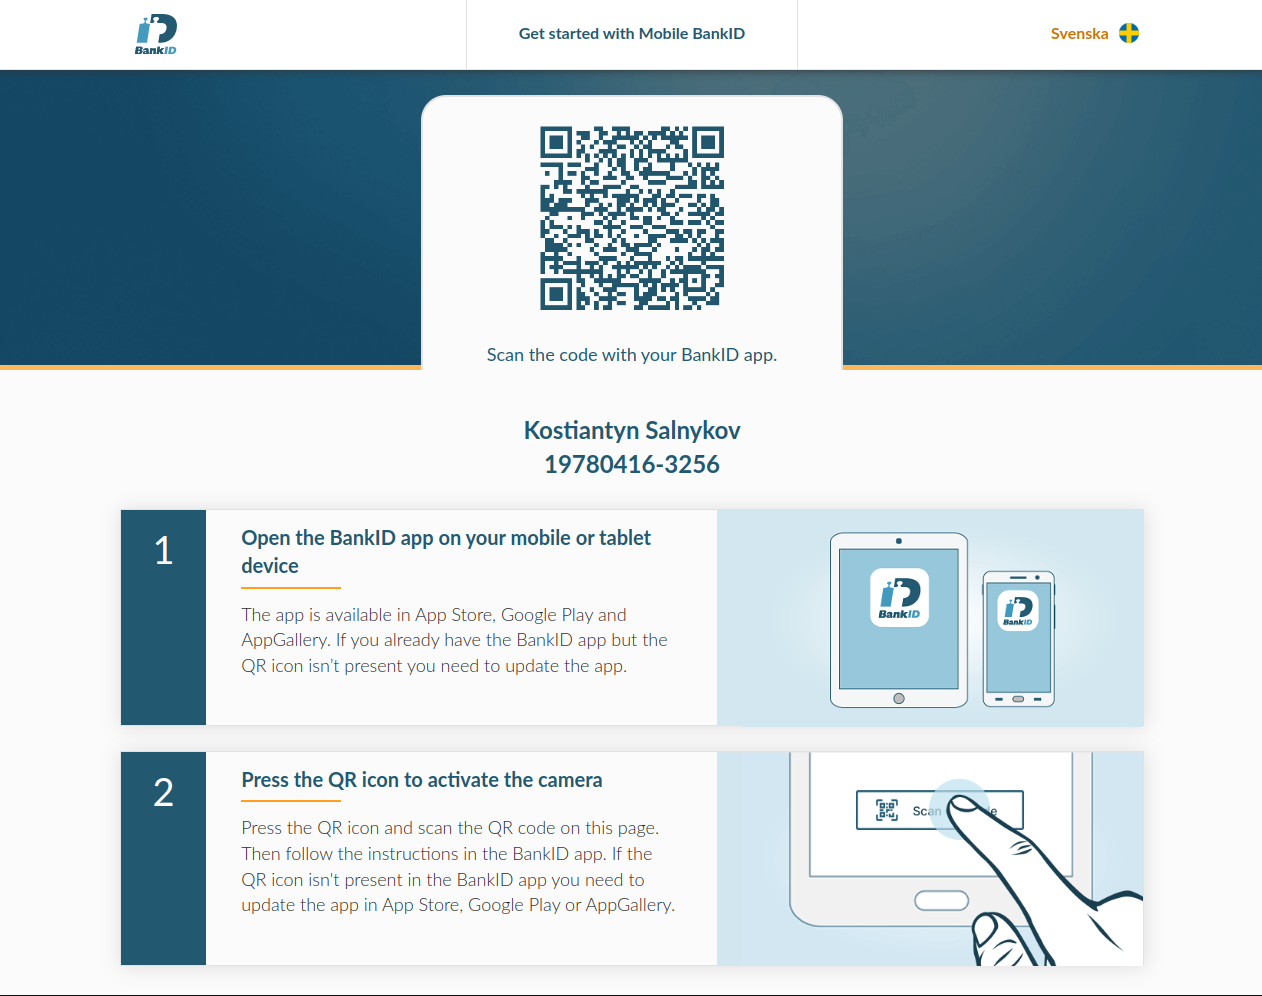
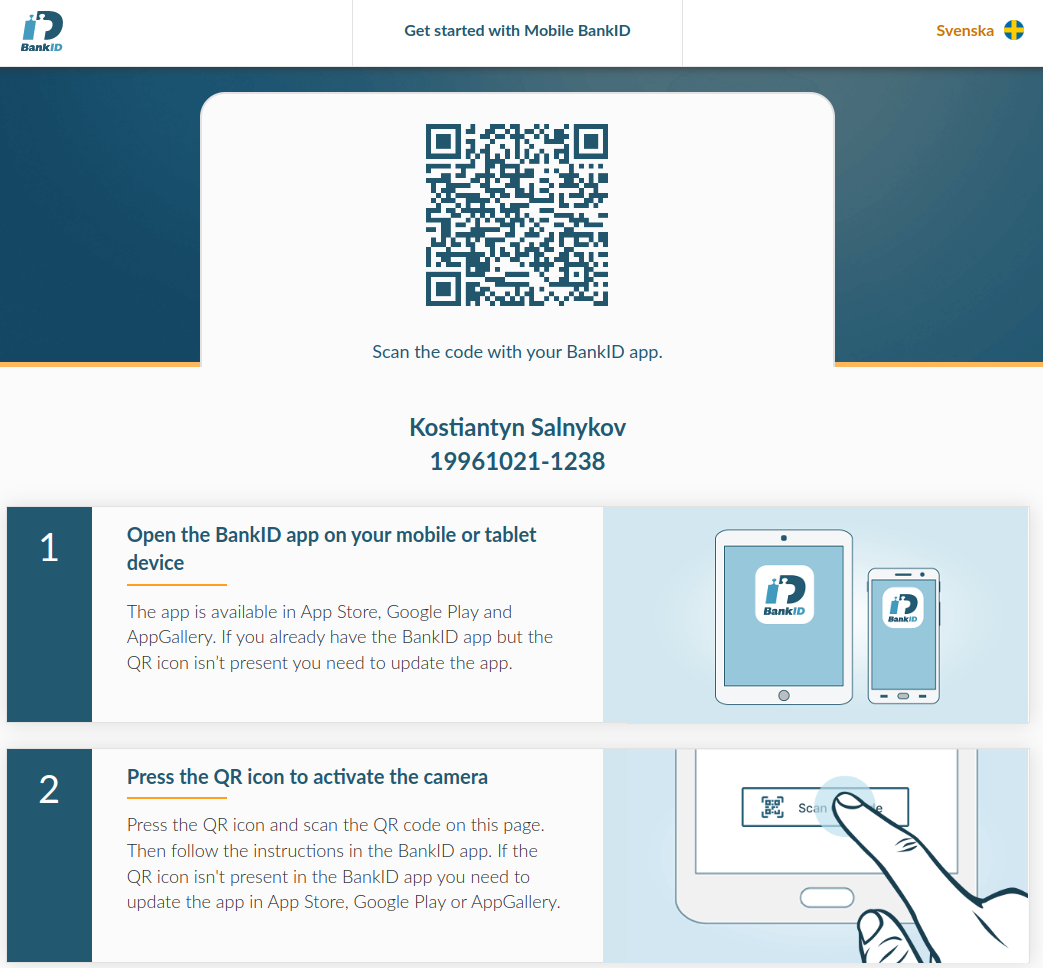
Update documentation

diff --git a/docs/setup.md b/docs/setup.md
@@ -38,21 +38,54 @@
     ```
 
 ### Test account 💼
-1. Goto [https://demo.bankid.com/](https://demo.bankid.com/){target=_blank}
-2. Click "Generate code"
-3. Fill form with your data (organization, email, project, fist name, last name)
+
+Here is a guide: [Get BankID for test](https://www.bankid.com/en/utvecklare/test/skaffa-testbankid/test-bankid-get){target=_blank}
+
+#### Issue personal code
+!!! tip
+    Use this method when you set up your environment for the first time.
+    Otherwise, use this methods [mobile](#login-with-mobile-app) or [desktop](#login-with-desktop-app).
+
+1. Goto [https://demo.bankid.com/ordercode](https://demo.bankid.com/ordercode){target=_blank}
+2. Fill form with your data (organization, email, project, fist name, last name)
     
     !!! warning "Organization email"
         Email should be a corporate, emails with `@gmail.com` domain wouldn't work❗
     
     ![Demo BankID Generate Code](assets/demo_bank_1.png)
 
-4. Goto your corporate email, you'll obtain a test 30-days trial code
-5. Use this code to log in
-    ![Demo BankID Login](assets/demo_bank_2.png)
-6. It's all, now you'll be able to set up Mobile / Desktop BankID environments.
+3. Goto your corporate email, you'll obtain a test 30-days trial code.
 
-### Test Android app 📱
+#### Login with personal code
+1. Use this code to log in [https://demo.bankid.com/logincode](https://demo.bankid.com/logincode){target=_blank}
+    ![Demo BankID Login](assets/demo_bank_2.png)
+2. It's all, now you'll be able to set up Mobile / Desktop BankID environments.
+
+#### Login with mobile app
+This is method to log in to test account using mobile app and QR code.
+!!! tip
+    Use this method when you already set up your test account via personal code [Issue personal code](#issue-personal-code).
+
+1. Go to [https://demo.bankid.com/logintest](https://demo.bankid.com/logintest){target=_blank}
+2. Open your BankID test app and scan QR code.
+
+    !!! warning
+        Mobile app should be configured, read here [Mobile test environments](#mobile-test-environments).
+
+#### Login with desktop app
+This is method to log in to test account using desktop app.
+!!! tip
+    Use this method when you already set up your test account via personal code [Issue personal code](#issue-personal-code).
+
+1. Go to [https://demo.bankid.com/logintest](https://demo.bankid.com/logintest){target=_blank}
+2. Click "Alternative: Start BankID Security Application on this device.".
+
+    !!! warning
+        Mobile app should be configured, read here [Mobile test environments](#mobile-test-environments).
+
+### Mobile test environments
+
+#### Test Android app 📱
 Here is a guide: [BankID test configuration](https://www.bankid.com/en/utvecklare/test/skaffa-testbankid/testbankid-konfiguration){target=_blank}
 
 1. Install BankID app from your app store.
@@ -78,7 +111,7 @@ Here is a guide: [BankID test configuration](https://www.bankid.com/en/utvecklar
 5. Disable "airplane mode".
 6. Done.
 
-### Test iOS app 📱
+#### Test iOS app 📱
 
 1. Uninstall any existing version of BankID Security App and then reinstall it from App Store.
 
@@ -92,7 +125,9 @@ Here is a guide: [BankID test configuration](https://www.bankid.com/en/utvecklar
 !!! warning "TODO Screenshots"
     If you have an iPhone you can help to document it with screenshots (Contributors welcome).
 
-### Test Windows app 🖥
+### Desktop test environments
+
+#### Test Windows app 🖥
 
 1. [Download](https://install.bankid.com/api/file-download/Win){.md-button} windows BankID desktop application ([extra link](https://install.bankid.com/Download/PostDownload/Win){target=_blank})
 2. Install it.
@@ -116,64 +151,77 @@ Here is a guide: [BankID test configuration](https://www.bankid.com/en/utvecklar
 8. Done.
 
 
-### Test MacOS app 💻
+#### Test MacOS app 💻
 
 !!! warning "TODO"
     If you have a Macbook, you can help to document it with screenshots (Contributors welcome).
 
-## Connect Test app to BankID test account
-Here is a guide: [Get BankID for test](https://www.bankid.com/en/utvecklare/test/skaffa-testbankid/test-bankid-get){target=_blank}
+### Generate personal number (customizable)
+
+1. Goto [Personal number generator](https://tedeh.net/tools/generator-for-swedish-personnummer/){target=_blank}
+2. Select "Output format" as "YYYYMMDDNNNN".
+3. Select your gender.
+4. Fill out "Date of birth".
+!!! example "Example"
+    ![Generate personal number](assets/demo_bank_2_1.png)
+
+### Generate random personal number with (fejk.se)
 
 1. Generate personal number at: [https://fejk.se/](https://fejk.se/){target=_blank}
-    
-    1.1 Get date of birth (without dashes).
-    
-    1.2 Get latest 4 digits of personnummer.
-    
-    1.3 Concatenate it without dashes.
-    !!! example
-        1) Date of birth `1996-10-21` --> `19961021` (remove dashes)
-        
-        2) End of personal number `-9876` --> `9876` (removed dash)
-        
-        3) Result `19961021` + `9876` --> `199610219876` (must be 12 digits length)
+2. Get date of birth (without dashes). 
+3. Get latest 4 digits of personnummer. 
+4. Concatenate it without dashes.
+!!! example
+    1) Date of birth `1996-10-21` --> `19961021` (remove dashes)
 
-        ![Generate Personal number](assets/demo_bank_3.png)
+    2) End of personal number `-1238` --> `1238` (removed dash)
 
-2. Login with 30-days code to demo BankID.
-3. Click "Issue" under "Issue BankID for Test".
-![Issue BankID for Test](assets/demo_bank_4.png)
-    
-    3.1 Select one option:
+    3) Result `19961021` + `1238` --> `199610211238` (must be 12 digits length)
+    ![Generate personal number](assets/demo_bank_3.png)
 
-    + "^^Issue Mobile BankID^^" - for mobile 📱;
+
+### Issue BankID for test
+1. Login to Demo Bank.
+
+    !!! tip
+        First time login: [personal code](#login-with-personal-code).
         
-    + "^^Issue BankID on file^^" - for desktop 🖥;
-    
-    3.2 Paste personal number into form, add first and last names.
+        Subsequent time login: [mobile](#login-with-mobile-app), [desktop](#login-with-desktop-app).
+
+2. Click selected button under "Issue BankID for Test".
+
+    !!! tip
+
+        + "^^Mobile BankID^^" - for mobile 📱;
+        + "^^BankID on file^^" - for desktop 🖥;
+
+    ![Issue BankID for Test](assets/demo_bank_4.png)
+
+3. Fill data into fields (first name, last name, personal number).
 
     ![Issue for test](assets/demo_bank_5.png)    
 
     !!! tip
         You can use random first name and last name.
 
+4. Click "Issue" and proceed with connection section, depends on your choice (mobile or desktop).
+
 ### Connect with Android 📱
 
 Before start: [requirements](#connect-test-app-to-bankid-test-account)
 
-1. Click "Issue" under "Issue Mobile BankID".
-2. Click "Open BankID issuing".
-    ![Issue BankID for phone](assets/demo_bank_6.png)
+1. Click "Issue" under "Mobile BankID" form.
+    ![Issue BankID for phone](assets/demo_bank_5.png)
 
-3. It will open modal window with QR code.
+2. It will open modal window with QR code.
     ![QR BankID for phone](assets/demo_bank_7.png)
 
-4. Open BankID app.
-5. Click "New BankID".
+3. Open BankID app.
+4. Click "New BankID".
 
     ![New BankID](assets/android/bankid_13.jpeg){width="200"}
 
-6. It will open scanner, scan QR code inside modal window.
+5. It will open scanner, scan QR code inside modal window.
     
     Success screen at mobile:
     
@@ -183,7 +231,7 @@ Before start: [requirements](#connect-test-app-to-bankid-test-account)
     
     ![Activation completed](assets/demo_bank_8.png)
     
-7. You can enable fingerprint to easy approve BankID confirmation.
+6. You can enable fingerprint to easy approve BankID confirmation.
     
     ![Enable fingerprint](assets/android/bankid_6.jpeg){width="170"}
     ![Confirmation](assets/android/bankid_7.jpeg){width="170"}
@@ -191,7 +239,7 @@ Before start: [requirements](#connect-test-app-to-bankid-test-account)
     ![Check fingerprint](assets/android/bankid_9.jpeg){width="170"}
     ![Check fingerprint completed](assets/android/bankid_10.jpeg){width="170"}
 
-8. You can check new test BankID connection inside your "Settings" under the BankID tab.
+7. You can check new test BankID connection inside your "Settings" under the BankID tab.
     
     !!! note
         P.S. Also your main screen now will have "QR code" button instead of "New BankID"
@@ -207,7 +255,9 @@ Before start: [requirements](#connect-test-app-to-bankid-test-account)
 
 Before start: [requirements](#connect-test-app-to-bankid-test-account)
 
-1. Click "Issue" under "Issue BankID on file".
+1. Click "Issue" under "BankID on file" form.
+    ![Issue BankID for phone](assets/demo_bank_5.png)
+    
 2. Click "Open BankID issuing".
 3. It will open modal window with QR code.
     ![Modal](assets/windows/bankid_1.jpeg)

diff --git a/docs/index.md b/docs/index.md
@@ -2,7 +2,7 @@
 
 --8<-- "docs/includes/badges.md"
 
-## Dependencies ⛓
+## Dependencies ⛓
 
 [![Pydantic](https://img.shields.io/badge/pydantic-%5E1.10.1-orange)](https://pydantic-docs.helpmanual.io/)
 [![HTTPX](https://img.shields.io/badge/httpx-%5E0.23.0-orange)](https://www.python-httpx.org/)
@@ -27,7 +27,7 @@ poetry add bankid-asyncio
 
 ## BankID
 
-### Links 🖇
+### Links 🖇
 #### [BankID](https://www.bankid.com/en){.md-button target=_blank}
 #### [BankID Relying Party Guidelines .pdf](https://www.bankid.com/assets/bankid/rp/BankID-Relying-Party-Guidelines-v3.7.pdf){.md-button target=_blank}
 

diff --git a/README.md b/README.md
@@ -1,6 +1,6 @@
 # bankid-asyncio 🏦
 
-## Badges 🏷
+## Badges 🏷
 ![GitHub](https://img.shields.io/github/license/Kostiantyn-Salnykov/bankid_asyncio)
 ![GitHub Workflow Status (with branch)](https://img.shields.io/github/actions/workflow/status/Kostiantyn-Salnykov/bankid_asyncio/python-package.yml?branch=main)
 ![GitHub (branch)](https://img.shields.io/badge/branch-main-brightgreen)

diff --git a/docs/includes/badges.md b/docs/includes/badges.md
@@ -1,4 +1,4 @@
-## Badges 🏷
+## Badges 🏷
 ![GitHub](https://img.shields.io/github/license/Kostiantyn-Salnykov/bankid_asyncio)
 ![GitHub Workflow Status (with branch)](https://img.shields.io/github/actions/workflow/status/Kostiantyn-Salnykov/bankid_asyncio/python-package.yml?branch=main)
 ![GitHub (branch)](https://img.shields.io/badge/branch-main-brightgreen)
